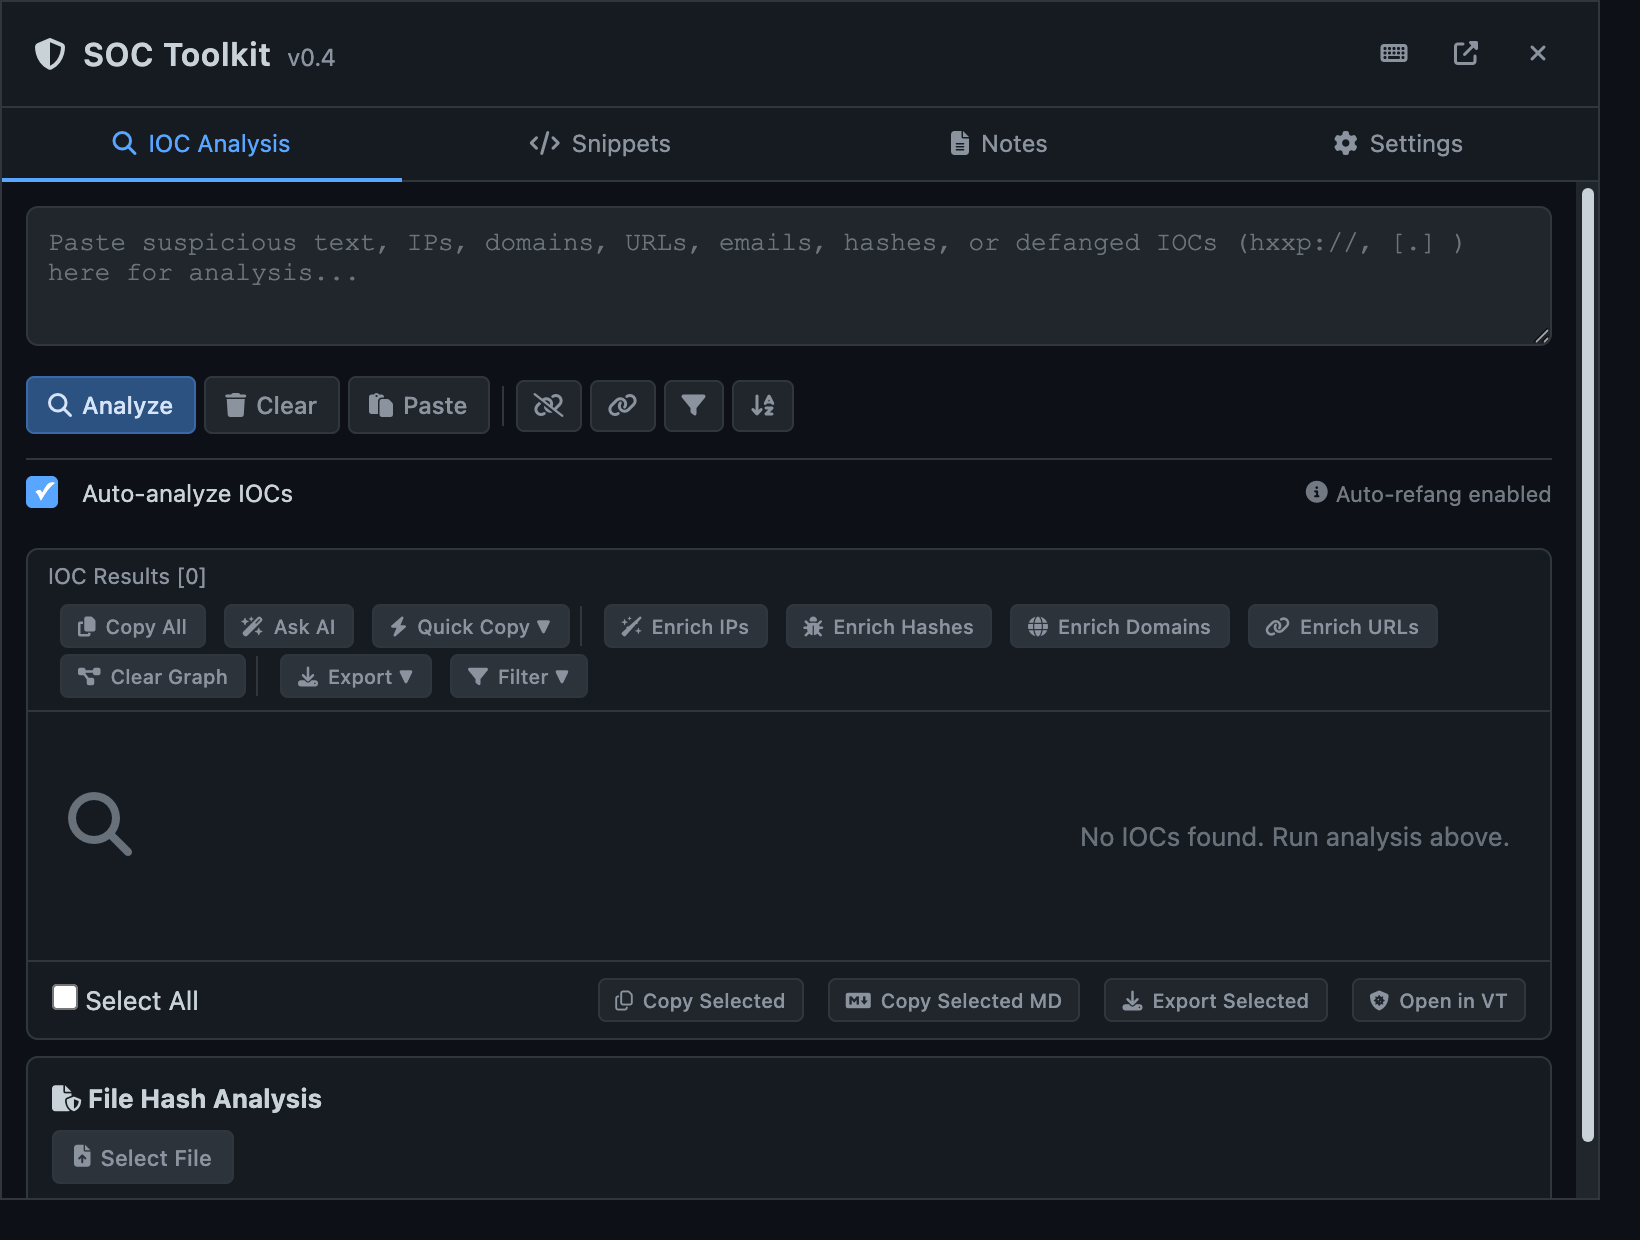
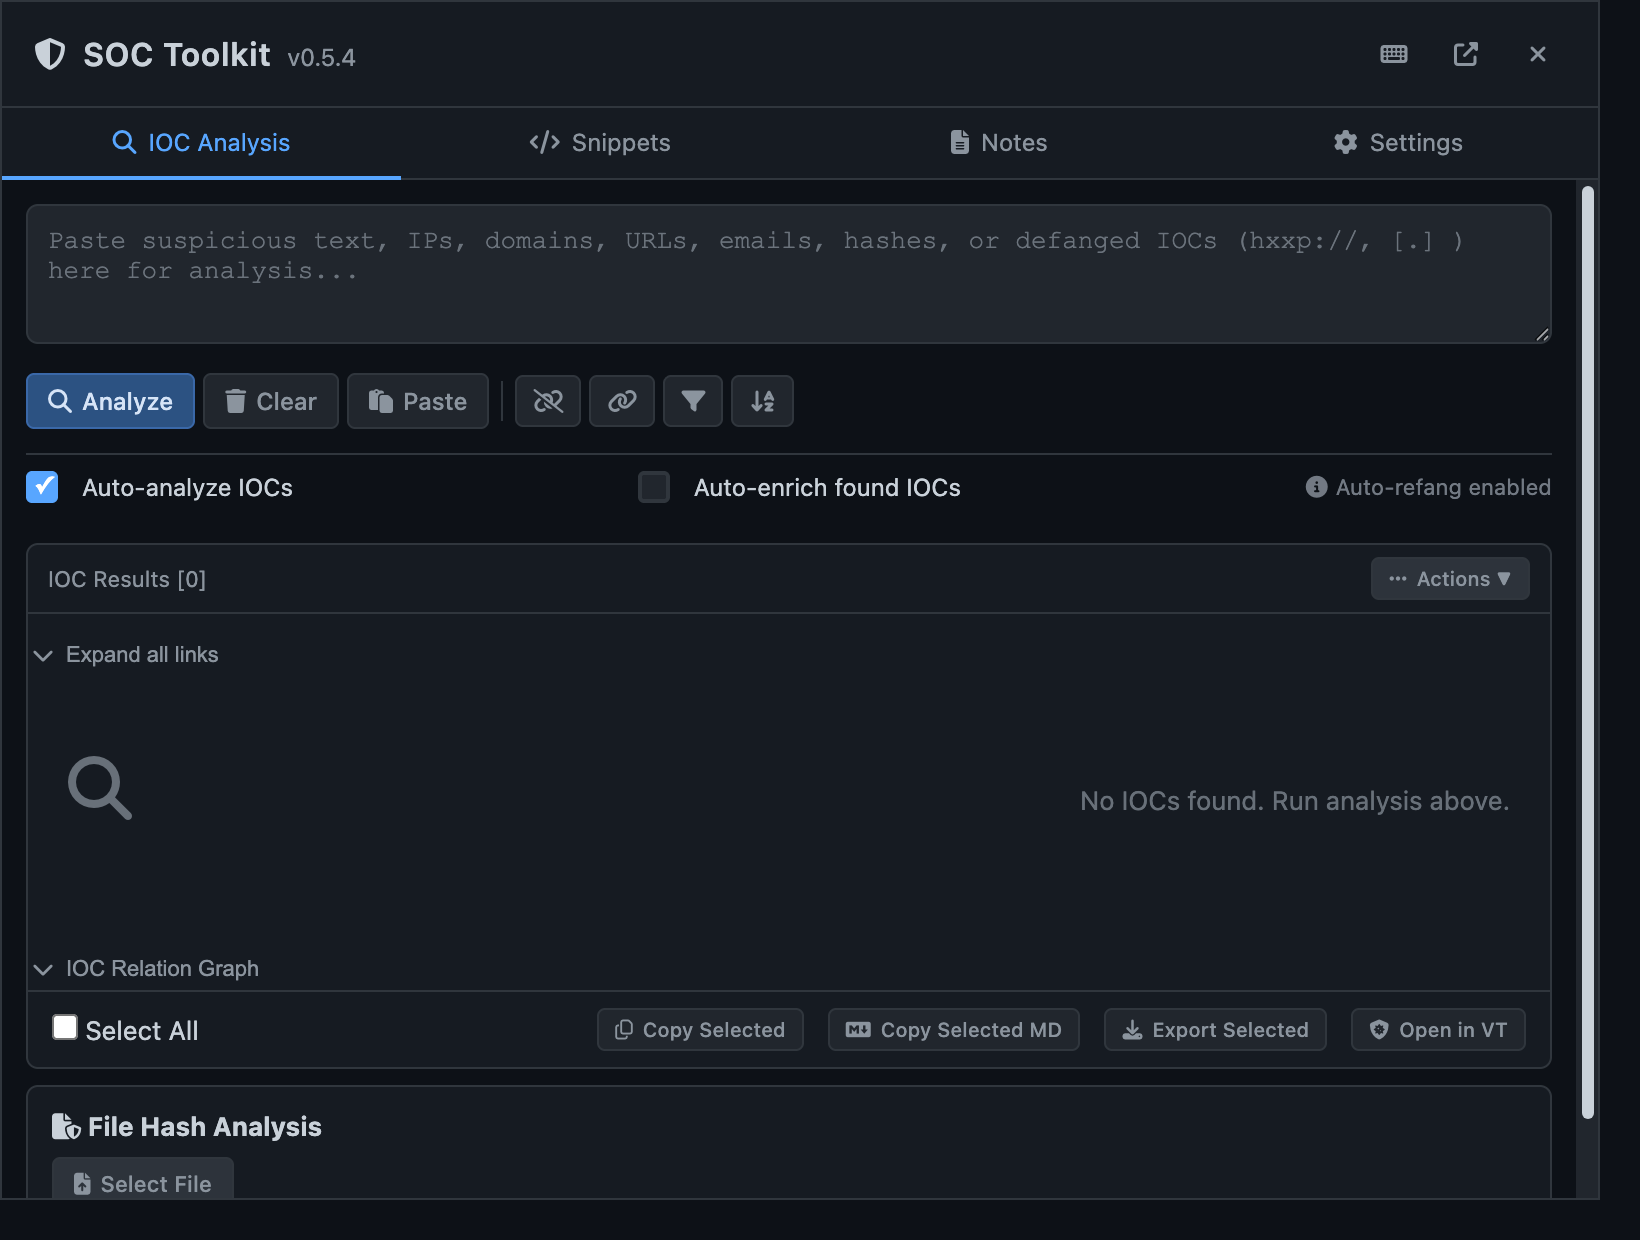
chore: capture 0.5.4 store screenshots; take.js uses Chrome-for-Testing + path-hash id
Branded Chrome ignores --load-extension since ~v137; default to the
Playwright-cached Chrome-for-Testing binary and derive the unpacked
extension id from the sha256 of the load path.

diff --git a/screenshots/take.js b/screenshots/take.js
@@ -21,28 +21,28 @@ Defanged URLs:
   hxxps://cdn[.]badactor[.]test/track.js
 `;
 
-async function getExtensionId(context) {
-  // Service workers are the most reliable signal that the MV3 extension is loaded.
+const crypto = require('crypto');
+
+function unpackedExtensionId(extPath) {
+  // Chrome derives the unpacked extension ID from the sha256 of the absolute
+  // load path: first 32 hex chars, mapped 0-9a-f -> a-p.
+  const hex = crypto.createHash('sha256').update(extPath, 'utf8').digest('hex').slice(0, 32);
+  return hex.split('').map((c) => String.fromCharCode(97 + parseInt(c, 16))).join('');
+}
+
+async function getExtensionId(context, extPath) {
+  // Service workers are the most reliable live signal that the MV3
+  // extension loaded; the path hash is the deterministic fallback.
   let sw = context.serviceWorkers().find(w => w.url().includes('chrome-extension://'));
   if (!sw) {
-    sw = await context.waitForEvent('serviceworker', { timeout: 15000 }).catch(() => null);
+    sw = await context.waitForEvent('serviceworker', { timeout: 8000 }).catch(() => null);
   }
   if (sw) {
     const m = sw.url().match(/^chrome-extension:\/\/([a-z]+)\//);
     if (m) return m[1];
   }
-  // Fallback: scrape about:extensions via a real page.
-  const page = await context.newPage();
-  await page.goto('chrome://extensions/');
-  await page.waitForTimeout(800);
-  const id = await page.evaluate(() => {
-    const m = location.href.match(/id=([a-z]+)/);
-    if (m) return m[1];
-    return null;
-  });
-  await page.close();
-  if (id) return id;
-  throw new Error('Could not determine extension ID');
+  console.log('[info] no service worker seen; using unpacked path-hash id');
+  return unpackedExtensionId(extPath);
 }
 
 async function shot(page, file, opts = {}) {
@@ -58,8 +58,10 @@ async function shot(page, file, opts = {}) {
   }
 
   // The cached "chrome-headless-shell" binary fails on this Mac (Mach port
-  // permission denied). Use the full Chrome-for-Testing binary instead.
-  const chromePath = process.env.CHROME_PATH || '/Applications/Google Chrome.app/Contents/MacOS/Google Chrome';
+  // permission denied). Branded Google Chrome ignores --load-extension since
+  // ~v137, so default to the Playwright-cached Chrome-for-Testing binary.
+  const chromePath = process.env.CHROME_PATH
+    || path.join(process.env.HOME, 'Library/Caches/ms-playwright/chromium-1234/chrome-mac-arm64/Google Chrome for Testing.app/Contents/MacOS/Google Chrome for Testing');
 
   const context = await chromium.launchPersistentContext(userDataDir, {
     headless: false, // Extensions only load with a window server on macOS.
@@ -75,7 +77,7 @@ async function shot(page, file, opts = {}) {
   });
 
   try {
-    const extId = await getExtensionId(context);
+    const extId = await getExtensionId(context, EXT_PATH);
     const popupUrl = `chrome-extension://${extId}/popup.html`;
     console.log(`[info] extension id: ${extId}`);
 
